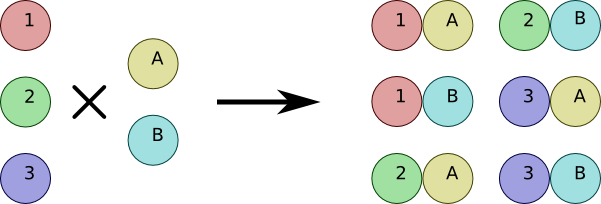
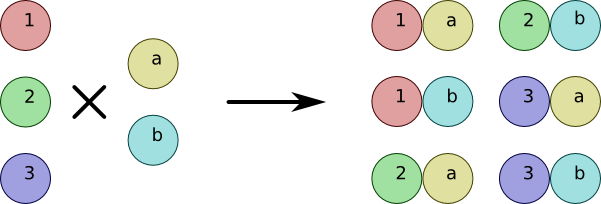
Probability: Minor changes to Preface, Mathematical Review and Concepts of Probability Theory.

diff --git a/3Conditional_Probability.tex b/3Conditional_Probability.tex
@@ -248,7 +248,11 @@ The second equality is obtained by writing
 = \sum_{k=1}^n \Pr (A_k) \Pr (B | A_k) .
 \end{split}
 \end{equation*}
-The application of the third axiom of probability is justified because $A_1, A_2, \ldots, A_n$ are disjoint events.
+The application of the third axiom of probability is justified because
+\begin{equation*}
+A_1, A_2, \ldots, A_n
+\end{equation*}
+are disjoint events.
 \end{proof}
 
 \begin{example}
@@ -262,7 +266,7 @@ Using Bayes' rule, we can easily compute the probability that a person who teste
 \begin{equation*}
 \begin{split}
 \Pr (D|P)
-&= \frac{ \Pr(D) \Pr(P|D) }{ \Pr(D) \Pr(P|D) + \Pr(D^c) \Pr(P|D^c) } \\
+&= \frac{ \Pr(D) \Pr(P|D) }{ \Pr(D) \Pr(P|D) + \Pr(D^{\Complement}) \Pr(P|D^{\Complement}) } \\
 &= \frac{ 0.01 \cdot 0.95 }{ 0.01 \cdot 0.95 + 0.99 \cdot 0.05 } \\
 &\approx 0.1610 .
 \end{split}

diff --git a/1Mathematical_Review.tex b/1Mathematical_Review.tex
@@ -73,8 +73,8 @@ Consider two sets, $S$ and $T$.
 
 \begin{center}
 \begin{psfrags}
-\psfrag{S}[r]{$S$}
-\psfrag{T}[l]{$T$}
+\psfrag{S}[c]{$S$}
+\psfrag{T}[c]{$T$}
 \includegraphics[height=3.03cm]{Figures/1Chapter/sets}
 \end{psfrags}
 \end{center}
@@ -196,8 +196,8 @@ S \times T = \{ (x, y) | x \in S \text{ and } y \in T \} .
 \psfrag{1}[c]{$1$}
 \psfrag{2}[c]{$2$}
 \psfrag{3}[c]{$3$}
-\psfrag{A}[c]{$A$}
-\psfrag{B}[c]{$B$}
+\psfrag{a}[c]{$a$}
+\psfrag{b}[c]{$b$}
 \includegraphics[height=3.06cm]{Figures/1Chapter/cartesianproduct}
 \end{psfrags}
 \end{center}

diff --git a/0Preface.tex b/0Preface.tex
@@ -1,7 +1,7 @@
 \chapter*{Preface}
 
 These notes provide an introduction to probability.
-It presents a treatment of probability concepts and techniques necessary for a basic understanding of the subject.
+It presents a treatment of probabilistic concepts and techniques necessary for a basic understanding of the subject.
 The notes are designed to be used in a semester course totaling 45 hours.
 The reader is expected to have a basic understanding of calculus including sequences, series, derivatives and integrals.
 
